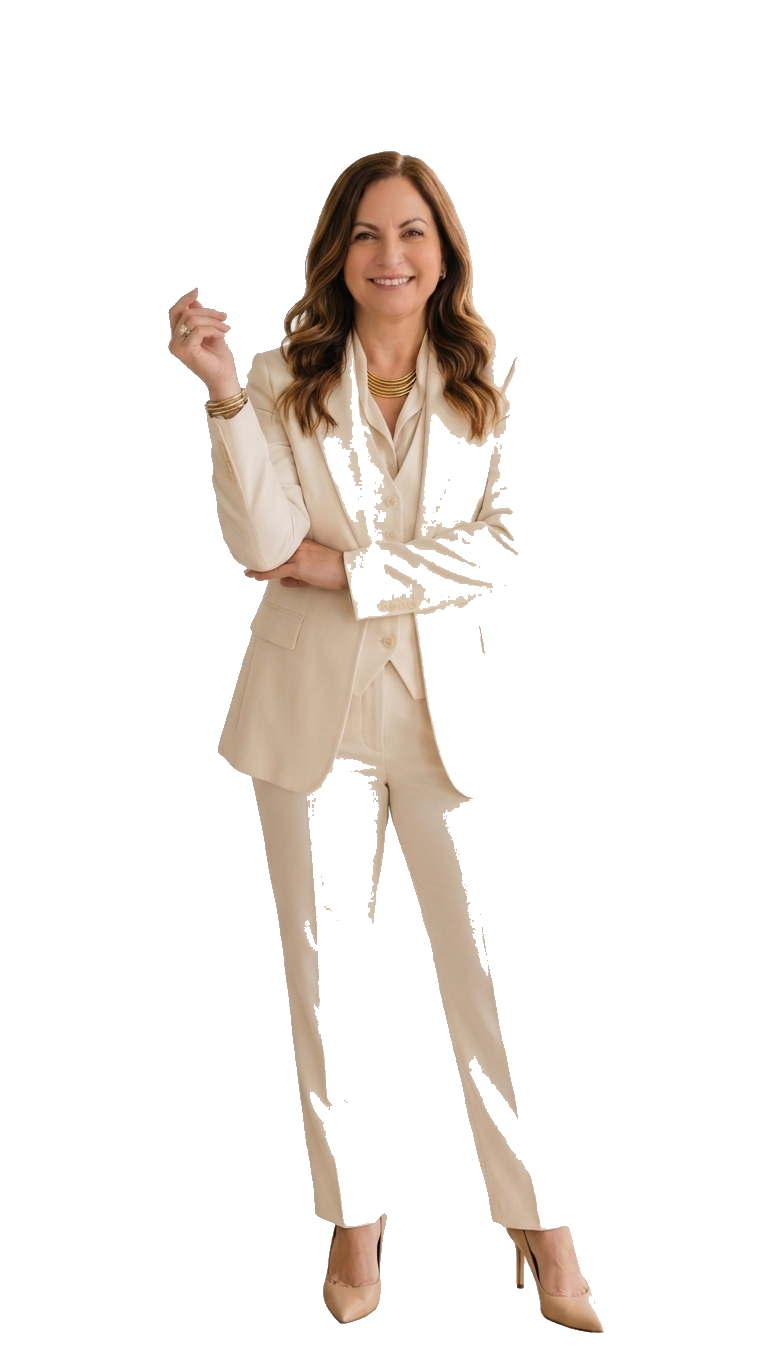
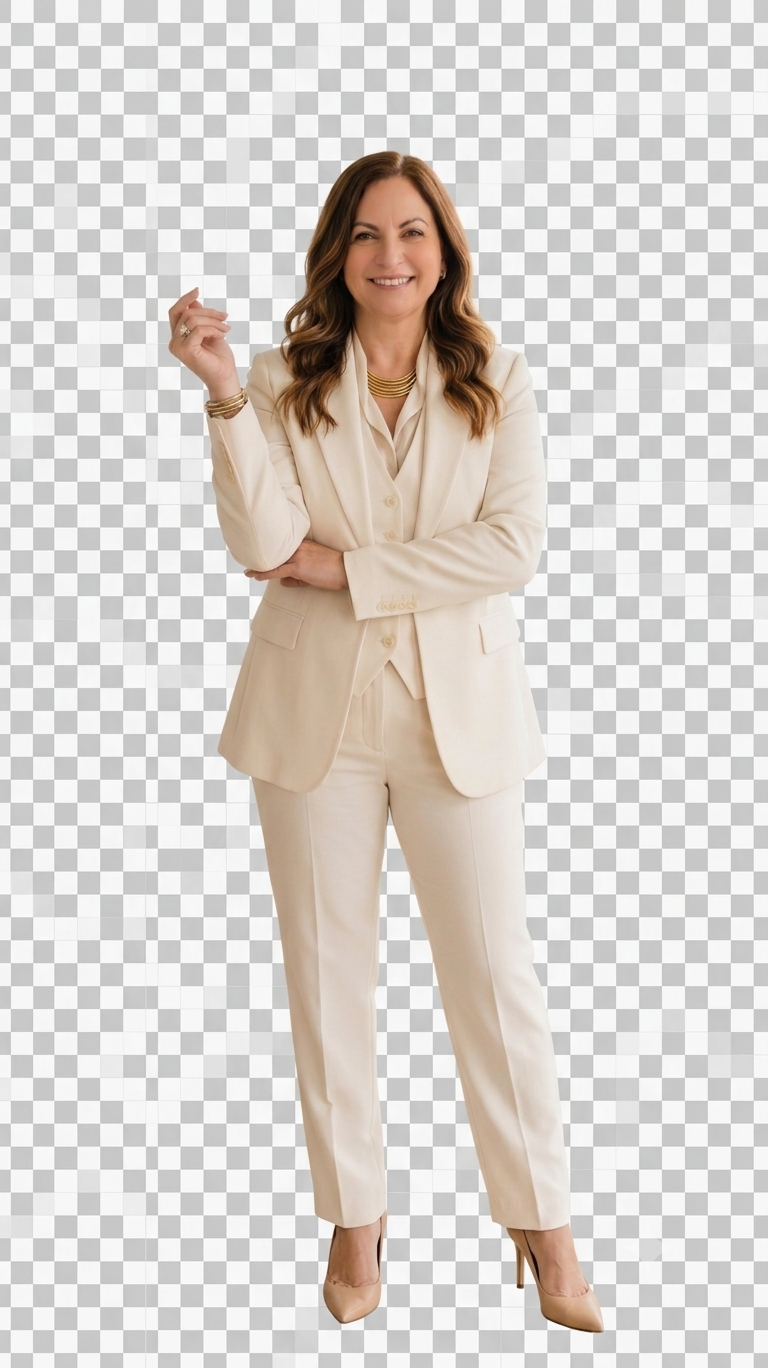
feat: imagen Verónica completa sin fondo + tamaño +30% (#16)
PNG original con transparencia real. Columna imagen +30% y altura +30%.

diff --git a/src/app/page.tsx b/src/app/page.tsx
@@ -20,7 +20,7 @@ export default function Home() {
       }}>
         <div style={{
           maxWidth: "1100px", width: "100%",
-          display: "grid", gridTemplateColumns: "1fr clamp(280px, 38vw, 480px)",
+          display: "grid", gridTemplateColumns: "1fr clamp(365px, 50vw, 625px)",
           gap: "clamp(2rem, 5vw, 5rem)", alignItems: "flex-end",
         }}>
           {/* Texto */}
@@ -57,7 +57,7 @@ export default function Home() {
           {/* Imagen Verónica */}
           <motion.div
             variants={fade} initial="hidden" animate="show" transition={{ duration: 1, delay: .3 }}
-            style={{ position: "relative", height: "clamp(420px, 65vh, 640px)", alignSelf: "flex-end" }}
+            style={{ position: "relative", height: "clamp(545px, 85vh, 830px)", alignSelf: "flex-end" }}
           >
             <Image
               src="/images/veronica-hero-nobg.png"
@@ -65,7 +65,7 @@ export default function Home() {
               fill
               priority
               style={{ objectFit: "contain", objectPosition: "bottom center" }}
-              sizes="(max-width: 768px) 90vw, 480px"
+              sizes="(max-width: 768px) 90vw, 625px"
             />
           </motion.div>
         </div>
